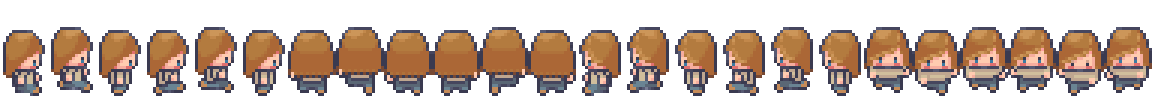
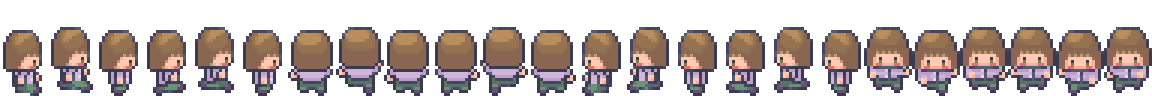
Prepare Ve

diff --git a/gamewidget.cpp b/gamewidget.cpp
@@ -53,7 +53,7 @@ GameWidget::GameWidget(QWidget *parent, int _svrType) :
     }
 
     P1 = new people(1,1,1,"P1",this);
-    P2 = new people(3,15,15,"P2",this);
+    P2 = new people(2,15,15,"P2",this);
     //AI = new people(0,12,12,"AI",this);
 
     AIComputing = 0;
